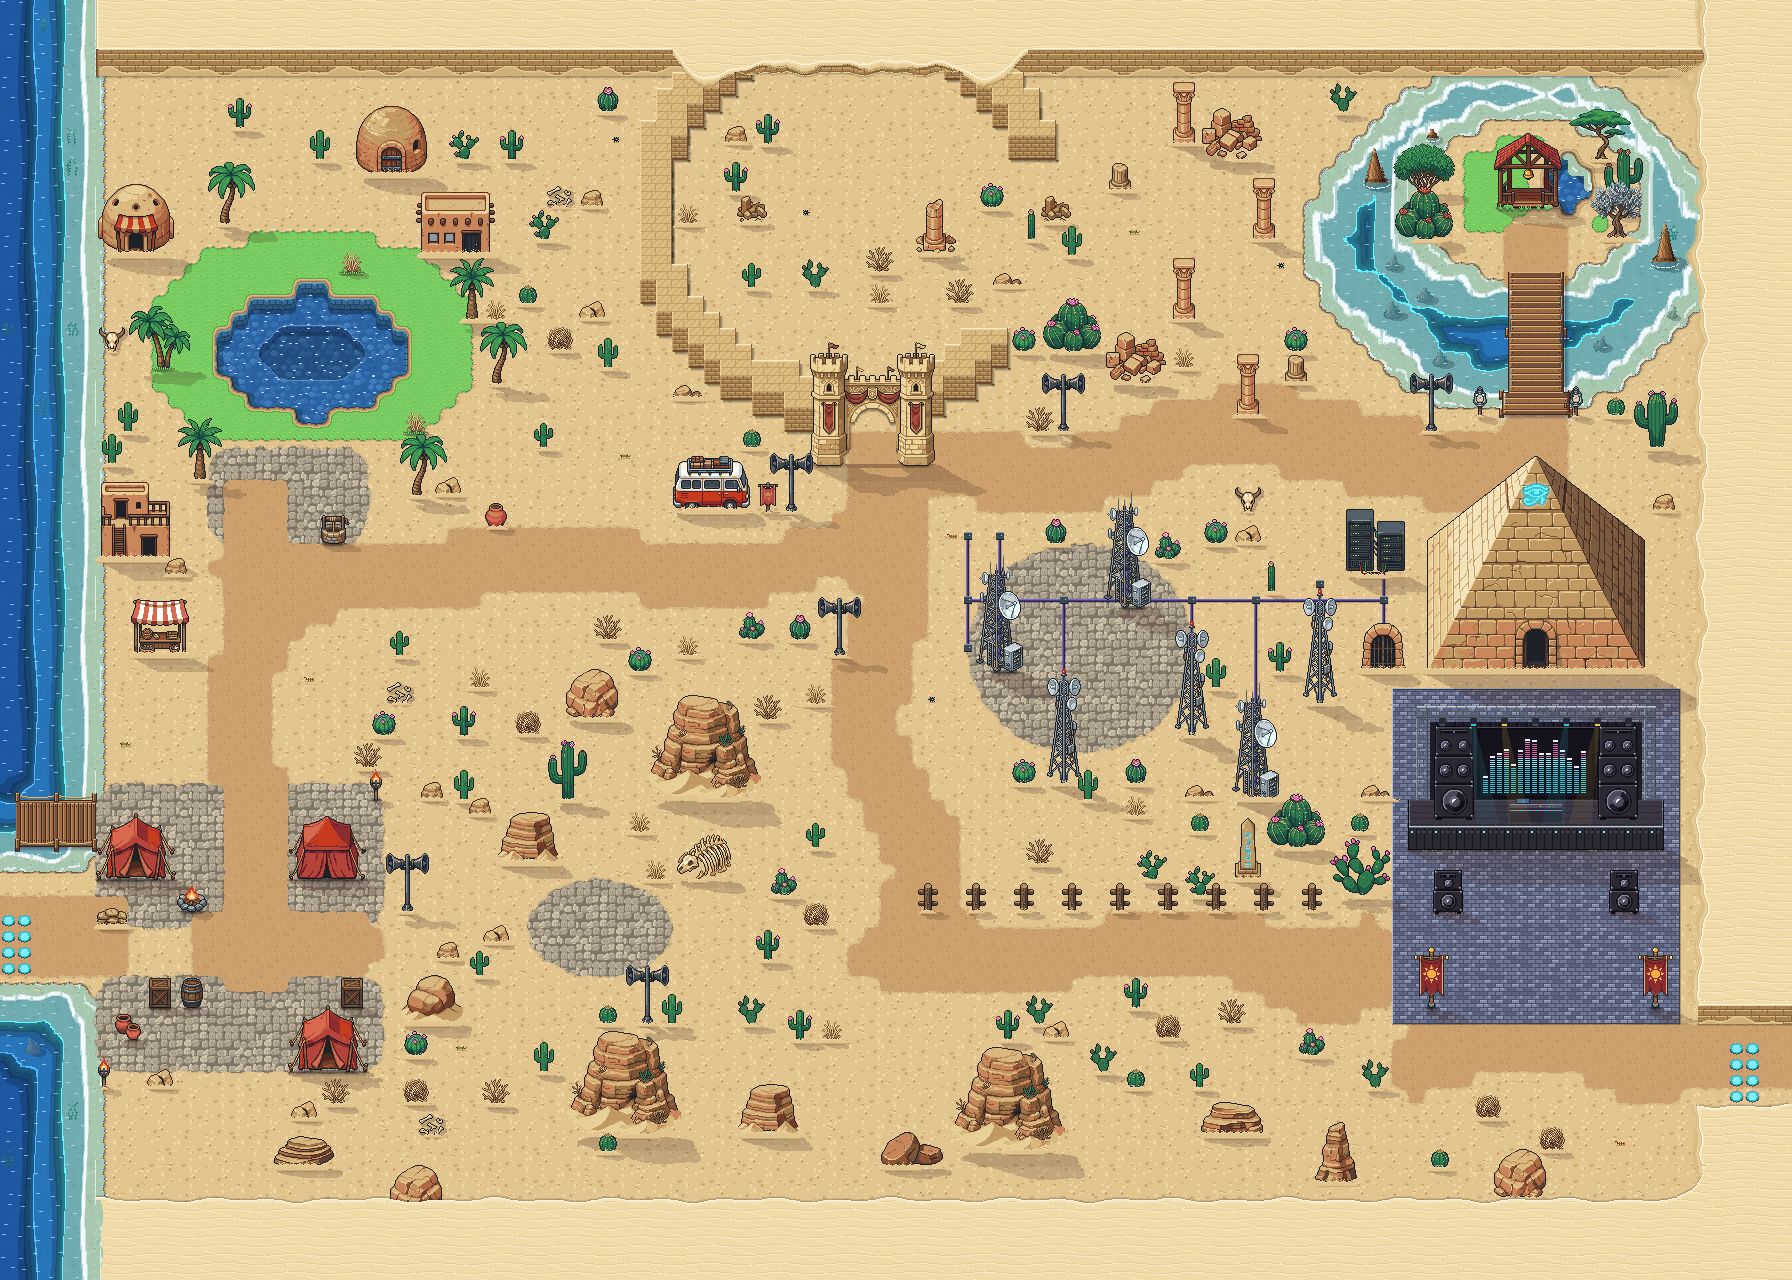
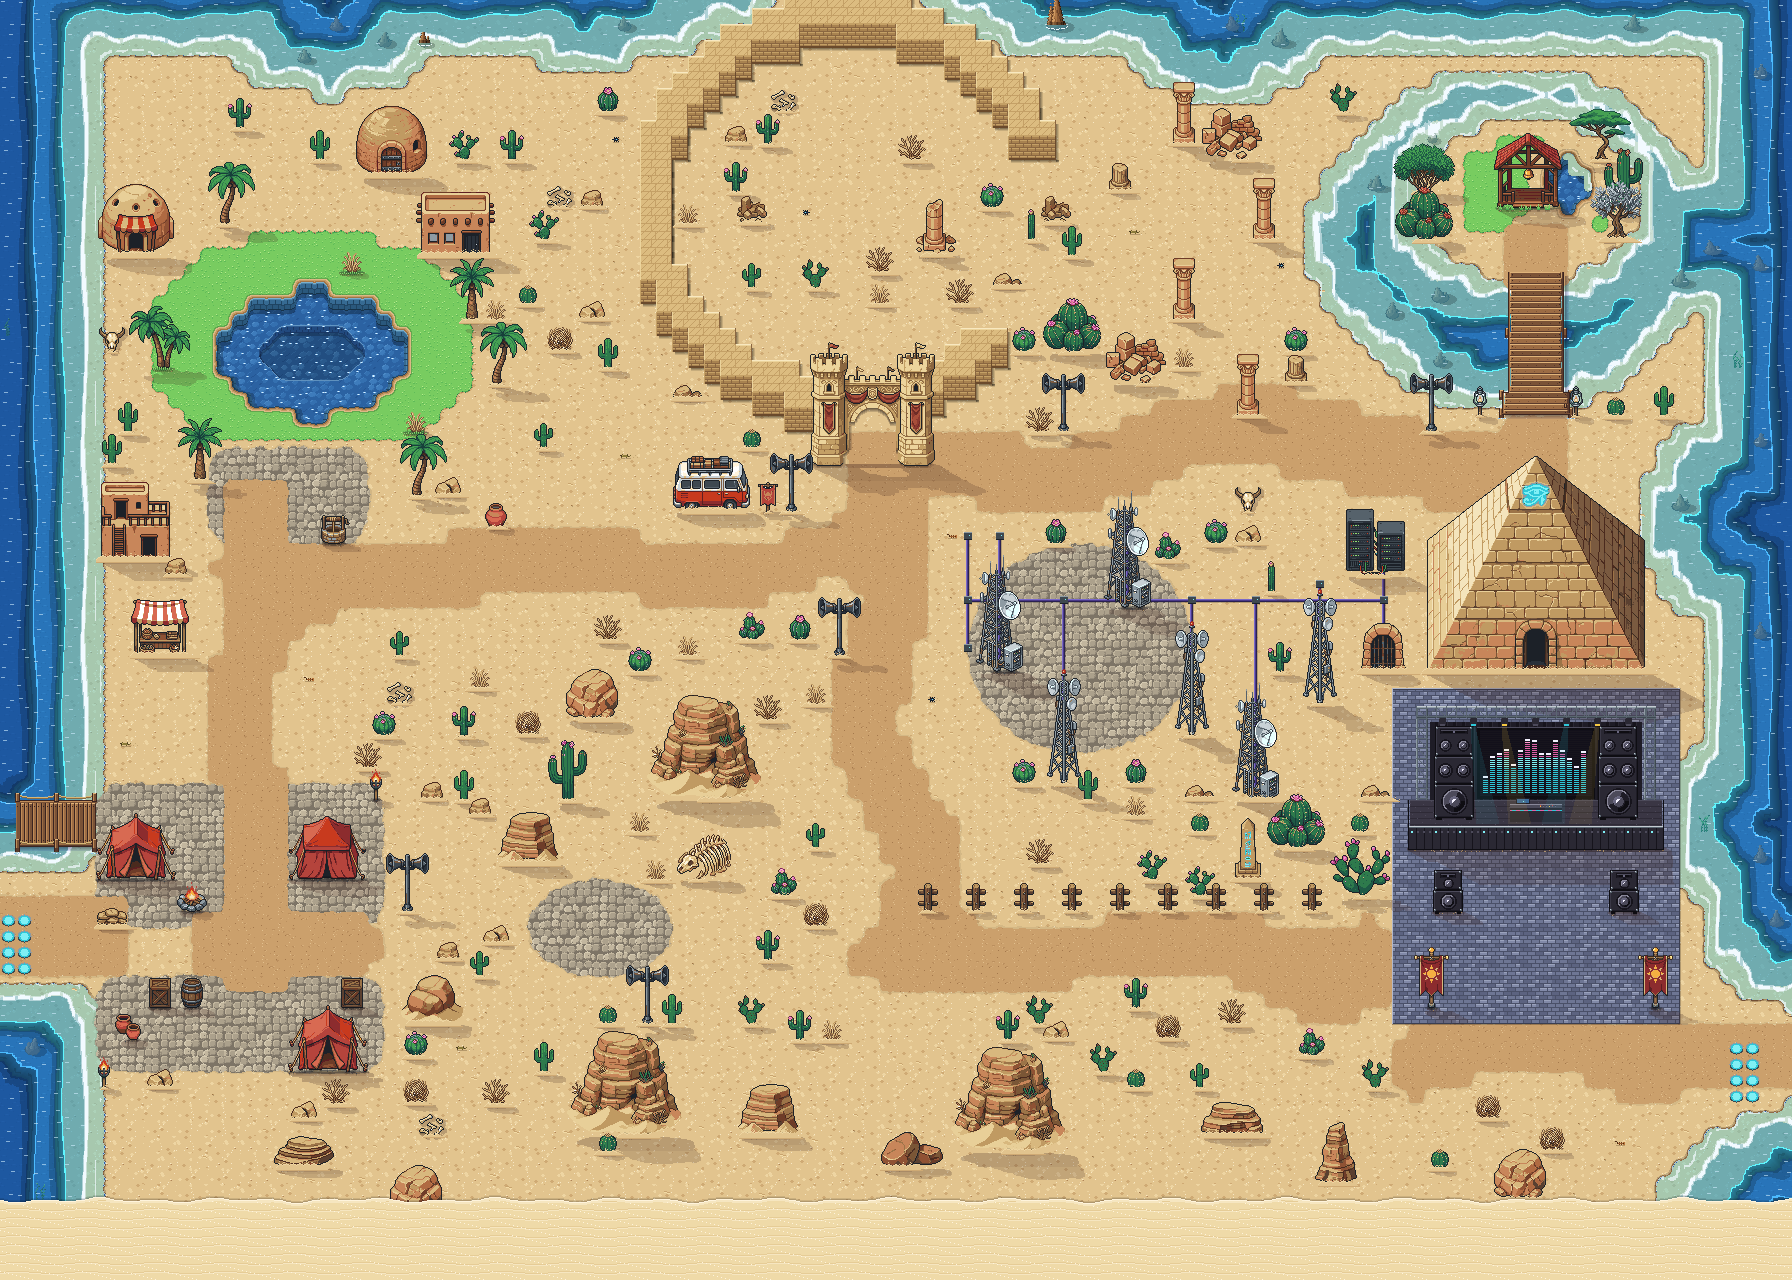
Karte 03 v1.1: Sandwaende oben/rechts entfernt, Meer laeuft bis zum Kartenrand aus (Buchten), Arena mit Strand, Landzunge zum Teleporter - Vorschau
Claude-Session: https://claude.ai/code/session_01SaoYHKhnro4LFcPJqjaPsq

diff --git a/tools/karte03_v11.py b/tools/karte03_v11.py
@@ -34,9 +34,21 @@ def main():
             boden.append({'art': 'weg', 'r': [94, 14, 97, 17]})
         else:
             boden.append(z)
+    # Meer auch oben und rechts bis zum Kartenrand (Sandwaende oben/rechts entfallen), mit Buchten;
+    # die Arena behaelt einen Sandstrand, der Teleporter rechts eine Landzunge
+    kueste = [
+        {'art': 'meer', 'r': [6, 0, 111, 2]}, {'art': 'meer', 'e': [20, 2.5, 7, 2.6]},
+        {'art': 'meer', 'e': [76, 3, 6, 2.4]}, {'art': 'meer', 'e': [36, 2, 4, 2]},
+        {'art': 'meer', 'r': [107, 0, 111, 79]}, {'art': 'meer', 'e': [105.5, 32, 3, 6]},
+        {'art': 'meer', 'e': [106, 51, 2.6, 5]}, {'art': 'meer', 'e': [106, 75, 2.5, 4]},
+        {'art': 'sand', 'e': [52.5, 13.5, 15, 14.2]},              # Arena mit Strand davor
+        {'art': 'sand', 'e': [106.5, 65.5, 6.5, 4.6]},             # Landzunge zum Teleporter rechts
+    ]
+    boden = boden[:1] + kueste + boden[1:]
     neu['boden'] = boden
-    neu['sandwand']['oben']['x'] = [6, 111]
-    neu['sandwand']['unten']['x'] = [6, 111]
+    neu['sandwand'].pop('oben', None)
+    neu['sandwand'].pop('rechts', None)
+    neu['sandwand']['unten']['x'] = [0, 111]              # Vordergrund-Duene ueber die ganze Breite
     # Holzsteg von der Insel nach Sueden (x0, x1, y0, y1 in Kacheln)
     neu['inselsteg'] = [94, 97, 17, 25]
     neu['_v11'] = 'Regeln v1.1 (tools/karte03_v11.py), Original: v1.0/layout_v1.0.json'

diff --git a/tools/karte03_bauen.py b/tools/karte03_bauen.py
@@ -189,7 +189,7 @@ def sandwand_vorne(L, cfg, rnd, rechts_x=None):
                 u = min(R, x - (xe - R))
                 w -= int(R - math.sqrt(max(0, R * R - u * u)))
         for y in range(k0 + w, L.H):
-            if x < x0 + 6 + int(2 * math.sin(y / 6.0)):
+            if x0 > 0 and x < x0 + 6 + int(2 * math.sin(y / 6.0)):
                 continue                                   # Uferseite: wellige Kante statt Kachelkante
             if rechts_x is not None and x >= rechts_x(y) + 3:
                 continue                                   # dort liegt schon die Seitendecke

diff --git a/maps/karte03/README.md b/maps/karte03/README.md
@@ -22,6 +22,8 @@ python3 tools/karte03_v11.py && python3 tools/karte03_bauen.py && python3 tools/
 ```
 
 - Meer links breiter und terrassiert wie Karte 01 (Flachwasser, Schaumkante, zwei Tiefenstufen, Tiefsee, Felsen, Algen).
+- Sandwaende oben und rechts entfernt: das Meer laeuft oben und rechts mit Buchten bis zum Kartenrand aus; Arena mit
+  Strand, Teleporter rechts auf einer Landzunge; vordere Duene unten ueber die ganze Breite.
 - Oase oben rechts als Insel im Meer: Gras mit Pavillon und Teich, Sandstrand mit Palmen/Kakteen, Holzsteg nach Sueden.
 - Regel 1/1b Raster, Regel 6 Wege in Boegen (Anschluesse an Stegen, Teleportern und Arena-Tor bleiben exakt),
   Regel 7 Schatten nie auf Wasser, liegende Objekte mit flachem Schatten, keine Objekte im Wasser, Ueberlappungen entfernt.
